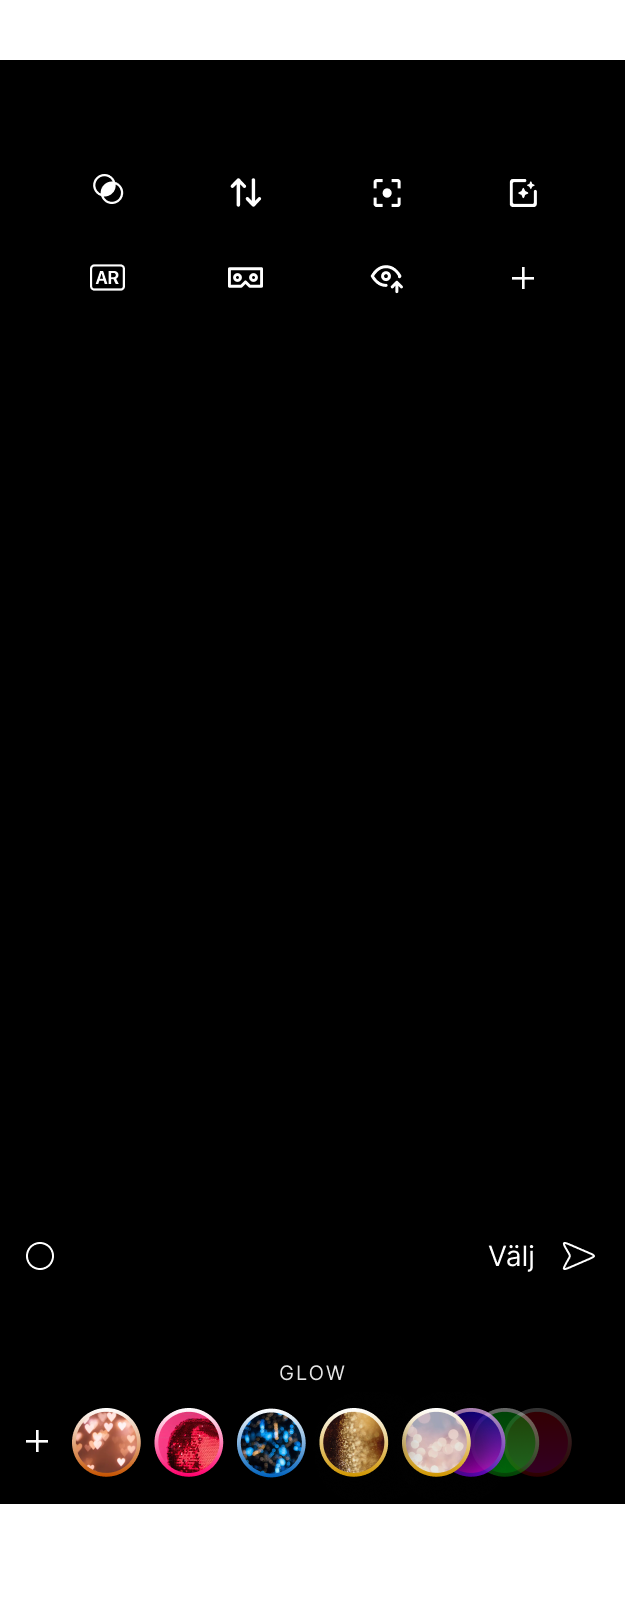
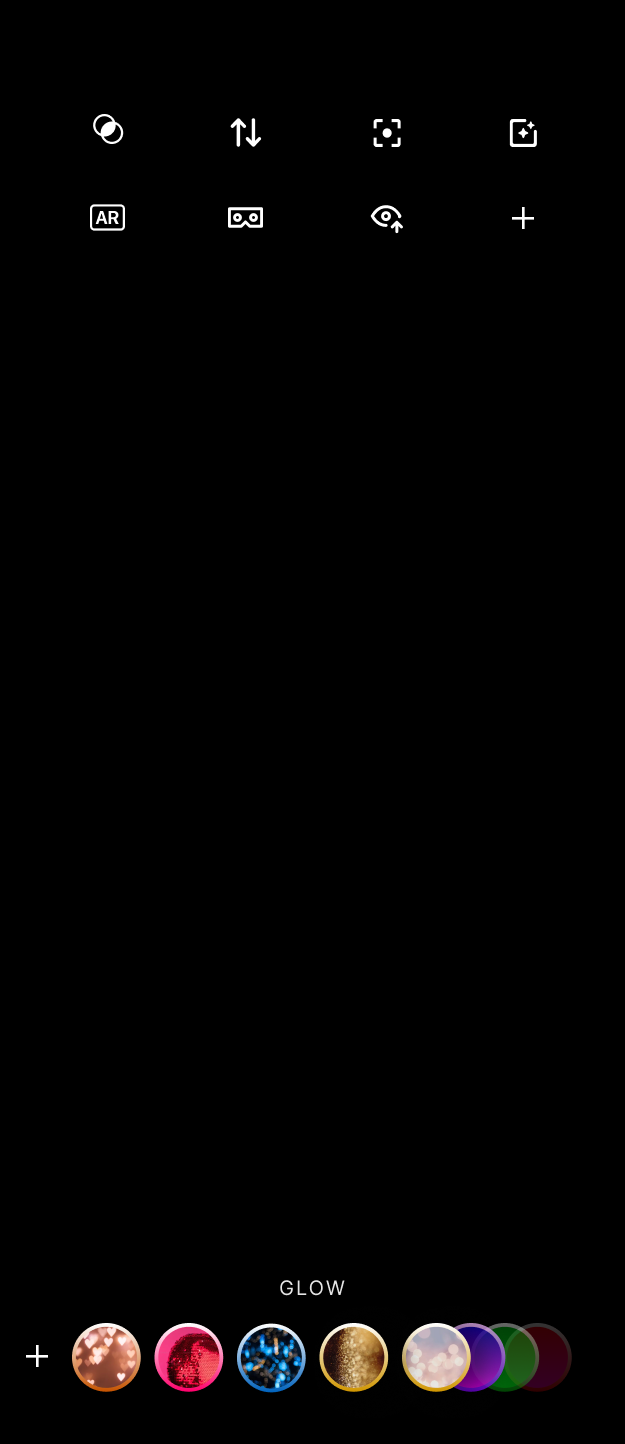
fixat kamera och andra grejer

diff --git a/src/Photocam.jsx b/src/Photocam.jsx
@@ -7,6 +7,7 @@ import bottomRec2 from './images/bottombar-recording2.png'
 import bottomRec3 from './images/bottombar-recording3.png'
 import bottomBar from './images/bottom-bar_photo.png'
 import flip from './images/flip.png'
+import utbyt from './images/OVERLAY_photo.png'
 import bottomBarPost from './images/bottom-bar_photo-post.png'
 import { useNavigate, Link, useLocation } from 'react-router-dom';
 import './Photocam.css';
@@ -168,6 +169,15 @@ const VideoRecorder = () => {
 
   return (
     <div className='video-rec-container' >
+       <img 
+        className="video-recorder"
+        src={utbyt}
+        width="100%"
+        alt="right column overlay"
+        style={{
+          marginTop: '10vh'
+        }}
+      />
 
 {!capturedPhotoUrl && photoUrl && (
   <img className='thumbnail' onClick={browsePhotos} src={photoUrl} alt="Captured Photo" />
@@ -188,7 +198,7 @@ const VideoRecorder = () => {
       
       
       <a onClick={toggleFullscreen}><div className='fullscreen'></div></a>
-      <Link to={'/photocam'}><div className='photo'></div></Link>
+      <Link to={'/camura'}><div className='video-roll'></div></Link>
       <a onClick={flipCam}>
   <div className='flipcam' style={{display:'hidden'}}></div>
 </a>

diff --git a/src/Photocam.css b/src/Photocam.css
@@ -19,4 +19,14 @@
 
 }
 
+.video-roll {
 
+  width:70px;
+  height: 40px;
+  z-index:99999;
+  opacity:0.1;
+  position:absolute;
+  top:470px;
+  left:290px;
+  background-color: red;
+}
